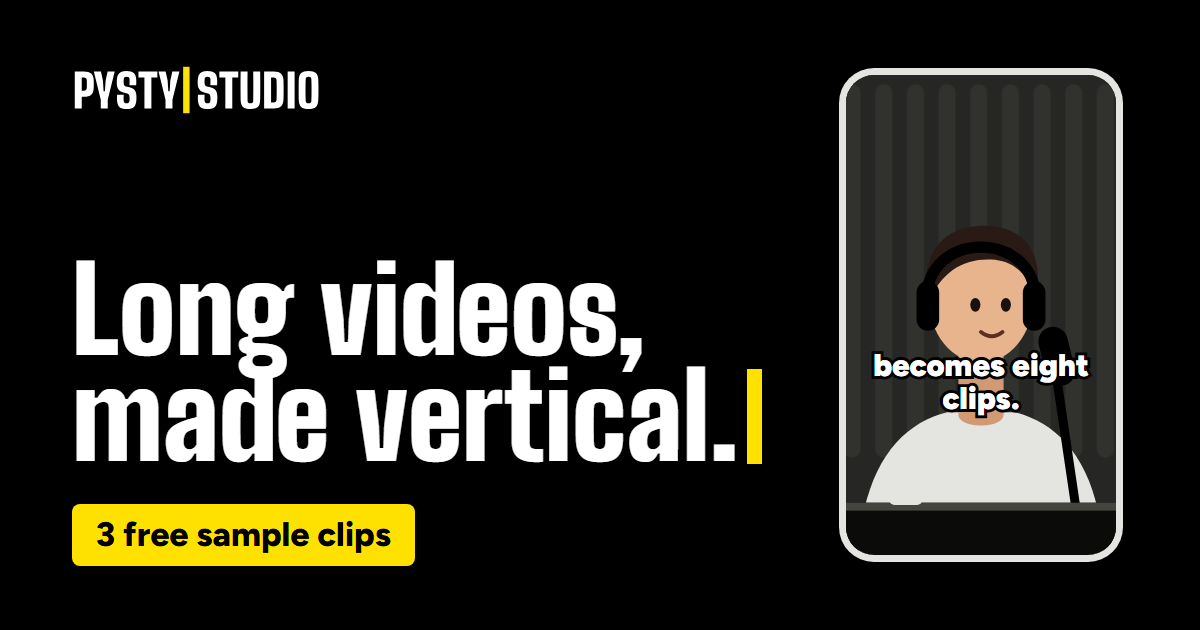
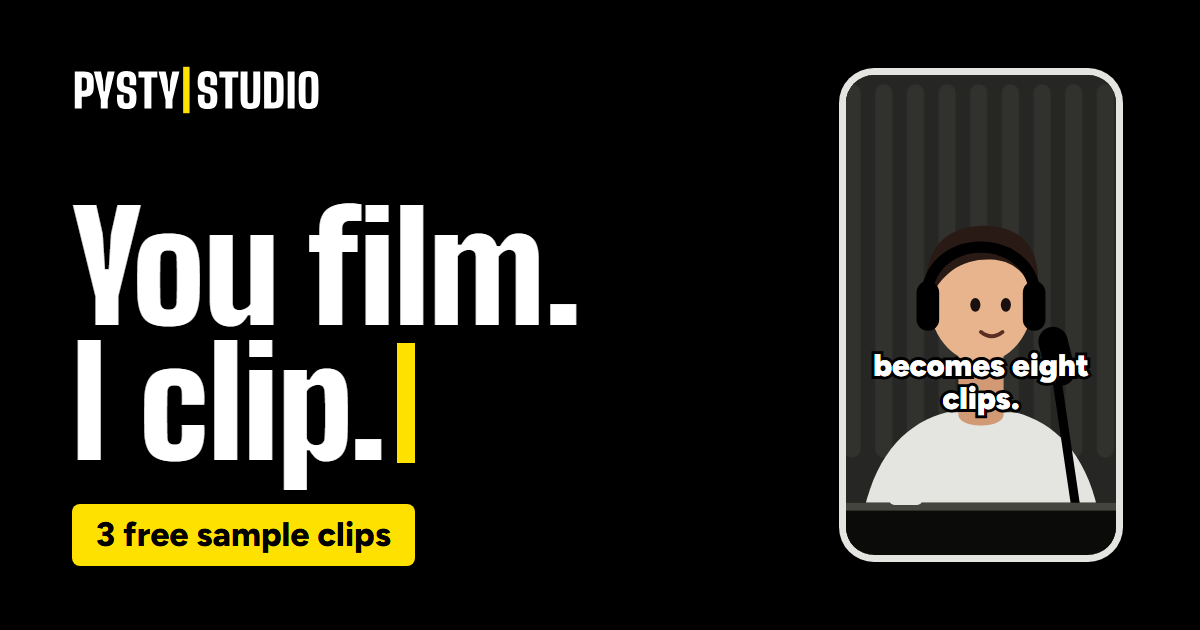
Etusivun otsikko: Sinä kuvaat. Minä klippaan. / You film. I clip. (Hanneksen valinta); ingressi, jakotiedot ja jakokuvat päivitetty, tietokoneella sana per rivi samassa tilassa kuin ennen

Changed region(s): [[0.0617, 0.3016, 0.6475, 0.7841]]

diff --git a/index.html b/index.html
@@ -10,7 +10,7 @@
   <meta property="og:type" content="website">
   <meta property="og:site_name" content="Pysty Studio">
   <meta property="og:url" content="https://pystystudio.fi/">
-  <meta property="og:title" content="Pysty Studio – pitkät videot pystyyn">
+  <meta property="og:title" content="Pysty Studio – sinä kuvaat, minä klippaan">
   <meta property="og:description" content="Valmiit pystyklipit YouTube-videoista ja podcasteista TikTokiin, Reelsiin ja Shortsiin. 3 ilmaista näyteklippiä.">
   <meta property="og:locale" content="fi_FI">
   <meta property="og:locale:alternate" content="en_US">
@@ -18,7 +18,7 @@
   <meta property="og:image:type" content="image/png">
   <meta property="og:image:width" content="1200">
   <meta property="og:image:height" content="630">
-  <meta property="og:image:alt" content="Pysty Studio: Pitkät videot pystyyn. 3 ilmaista näyteklippiä.">
+  <meta property="og:image:alt" content="Pysty Studio: Sinä kuvaat. Minä klippaan. 3 ilmaista näyteklippiä.">
   <meta name="twitter:card" content="summary_large_image">
   <meta name="theme-color" content="#000000">
   <!-- Kieliversiot: suomi (oletus) ja englanti (en/). -->
@@ -140,8 +140,8 @@
     <section class="hero" aria-labelledby="hero-otsikko">
       <div class="kehys hero-ruudukko">
         <div class="hero-teksti">
-          <h1 id="hero-otsikko"><span>Pitkät</span> <span>videot</span> <span class="kursori">pystyyn.</span></h1>
-          <p class="ingressi">Teen YouTube-videoistasi ja podcasteistasi valmiita pystyklippejä TikTokiin, Reelsiin ja Shortsiin. Sinä vain hyväksyt ne.</p>
+          <h1 id="hero-otsikko" class="otsikko-pino"><span>Sinä kuvaat.</span> <span>Minä klippaan.</span></h1>
+          <p class="ingressi">Teen YouTube-videoistasi ja podcasteistasi valmiita pystyklippejä TikTokiin, Reelsiin ja Shortsiin. Hyväksyt ne, ja ne ovat valmiita julkaistaviksi.</p>
           <div class="toiminnot">
             <a class="nappi nappi-ensisijainen" href="mailto:korkiakoskihannes@gmail.com?subject=Ilmaiset%20n%C3%A4yteklipit&amp;body=Hei%20Hannes%2C%0A%0Ahaluaisin%203%20ilmaista%20n%C3%A4yteklippi%C3%A4.%0A%0ALinkki%20videoon%20tai%20jaksoon%3A%20%0AKanavan%20nimi%20tai%20linkki%3A%20%0AKanavat%2C%20joilla%20julkaisen%20(TikTok%2C%20Instagram%20Reels%2C%20YouTube%20Shorts)%3A%20%0A%0AToiveet%20(vapaaehtoinen)%3A%0A-%20Kohdat%2C%20joista%20haluan%20klipit%20(aikaleimat)%3A%20%0A-%20Tyyli%20(tekstityksen%20v%C3%A4rit%2C%20fontti%2C%20musiikki)%3A%20%0A-%20Kenelle%20kanava%20on%20suunnattu%3A%20%0A%0ANimi%3A%20%0AYritys%20ja%20Y-tunnus%20(jos%20tilaan%20yrityksen%C3%A4)%3A%20%0A%0AHyv%C3%A4ksyn%20n%C3%A4ytteiden%20ehdot%3A%20https%3A%2F%2Fpystystudio.fi%2Fnaytteet.html%0A">Pyydä 3 ilmaista näyteklippiä</a>
             <a class="nappi nappi-toissijainen" href="#hinnat">Katso hinnat</a>

diff --git a/en/index.html b/en/index.html
@@ -10,7 +10,7 @@
   <meta property="og:type" content="website">
   <meta property="og:site_name" content="Pysty Studio">
   <meta property="og:url" content="https://pystystudio.fi/en/">
-  <meta property="og:title" content="Pysty Studio – long videos, made vertical">
+  <meta property="og:title" content="Pysty Studio – you film, I clip">
   <meta property="og:description" content="Ready-to-post vertical clips from YouTube videos and podcasts for TikTok, Reels and Shorts. Get 3 free sample clips.">
   <meta property="og:locale" content="en_US">
   <meta property="og:locale:alternate" content="fi_FI">
@@ -18,7 +18,7 @@
   <meta property="og:image:type" content="image/png">
   <meta property="og:image:width" content="1200">
   <meta property="og:image:height" content="630">
-  <meta property="og:image:alt" content="Pysty Studio: Long videos, made vertical. 3 free sample clips.">
+  <meta property="og:image:alt" content="Pysty Studio: You film. I clip. 3 free sample clips.">
   <meta name="twitter:card" content="summary_large_image">
   <meta name="theme-color" content="#000000">
   <!-- Kieliversiot: suomi (oletus) ja englanti. -->
@@ -140,7 +140,7 @@
     <section class="hero" aria-labelledby="hero-heading">
       <div class="kehys hero-ruudukko">
         <div class="hero-teksti">
-          <h1 id="hero-heading"><span>Long</span> <span>videos,</span> <span>made</span> <span class="kursori">vertical.</span></h1>
+          <h1 id="hero-heading"><span>You film.</span> <span>I clip.</span></h1>
           <p class="ingressi">I turn your YouTube videos and podcasts into ready-to-post vertical clips for TikTok, Reels and Shorts. You just approve them.</p>
           <div class="toiminnot">
             <a class="nappi nappi-ensisijainen" href="mailto:korkiakoskihannes@gmail.com?subject=Free%20sample%20clips&amp;body=Hi%20Hannes%2C%0A%0AI%E2%80%99d%20like%203%20free%20sample%20clips.%0A%0ALink%20to%20the%20video%20or%20episode%3A%20%0AChannel%20name%20or%20link%3A%20%0AWhere%20I%20publish%20(TikTok%2C%20Instagram%20Reels%2C%20YouTube%20Shorts)%3A%20%0A%0AWishes%20(optional)%3A%0A-%20Moments%20I%E2%80%99d%20like%20clipped%20(timestamps)%3A%20%0A-%20Style%20(caption%20colours%2C%20font%2C%20music)%3A%20%0A-%20Who%20the%20channel%20is%20for%3A%20%0A%0AName%3A%20%0ACompany%20and%20VAT%20number%20(if%20any)%3A%20%0A%0AI%20accept%20the%20sample%20terms%3A%20https%3A%2F%2Fpystystudio.fi%2Fen%2Fsamples.html%0A">Get 3 free sample clips</a>

diff --git a/assets/tyyli.css b/assets/tyyli.css
@@ -1787,8 +1787,11 @@ h1 span { display: block; }
   }
   .klippi { width: min(62%, 19rem); }
   .ingressi { font-size: 1.25rem; }
-  /* Kahdessa sarakkeessa otsikko skaalataan sarakkeen mukaan, jotta "pystyyn.|" mahtuu. */
+  /* Kahdessa sarakkeessa otsikko skaalataan sarakkeen mukaan, jotta pisin sana mahtuu. */
   h1 { font-size: clamp(5rem, 14.5vw - 1.5rem, 9.5rem); }
+  /* Suomenkielinen otsikko "Sinä kuvaat. Minä klippaan." (29.10.2026): kahdessa sarakkeessa sana per rivi ja koko 3/4,
+     jotta neljä riviä vievät saman tilan kuin entiset kolme. Kapeammalla otsikko on kaksi riviä. */
+  h1.otsikko-pino { font-size: clamp(3.75rem, 10.875vw - 1.125rem, 7.125rem); word-spacing: 100vw; }
 }
 
 @media (prefers-reduced-motion: reduce) {

diff --git a/tietosuoja.html b/tietosuoja.html
@@ -17,7 +17,7 @@
   <meta property="og:image:type" content="image/png">
   <meta property="og:image:width" content="1200">
   <meta property="og:image:height" content="630">
-  <meta property="og:image:alt" content="Pysty Studio: Pitkät videot pystyyn. 3 ilmaista näyteklippiä.">
+  <meta property="og:image:alt" content="Pysty Studio: Sinä kuvaat. Minä klippaan. 3 ilmaista näyteklippiä.">
   <meta name="twitter:card" content="summary_large_image">
   <meta name="theme-color" content="#000000">
   <link rel="alternate" hreflang="fi" href="https://pystystudio.fi/tietosuoja.html">

diff --git a/naytteet.html b/naytteet.html
@@ -17,7 +17,7 @@
   <meta property="og:image:type" content="image/png">
   <meta property="og:image:width" content="1200">
   <meta property="og:image:height" content="630">
-  <meta property="og:image:alt" content="Pysty Studio: Pitkät videot pystyyn. 3 ilmaista näyteklippiä.">
+  <meta property="og:image:alt" content="Pysty Studio: Sinä kuvaat. Minä klippaan. 3 ilmaista näyteklippiä.">
   <meta name="twitter:card" content="summary_large_image">
   <meta name="theme-color" content="#000000">
   <link rel="alternate" hreflang="fi" href="https://pystystudio.fi/naytteet.html">

diff --git a/tarjous.html b/tarjous.html
@@ -17,7 +17,7 @@
   <meta property="og:image:type" content="image/png">
   <meta property="og:image:width" content="1200">
   <meta property="og:image:height" content="630">
-  <meta property="og:image:alt" content="Pysty Studio: Pitkät videot pystyyn. 3 ilmaista näyteklippiä.">
+  <meta property="og:image:alt" content="Pysty Studio: Sinä kuvaat. Minä klippaan. 3 ilmaista näyteklippiä.">
   <meta name="twitter:card" content="summary_large_image">
   <meta name="theme-color" content="#000000">
   <link rel="alternate" hreflang="fi" href="https://pystystudio.fi/tarjous.html">

diff --git a/en/privacy.html b/en/privacy.html
@@ -17,7 +17,7 @@
   <meta property="og:image:type" content="image/png">
   <meta property="og:image:width" content="1200">
   <meta property="og:image:height" content="630">
-  <meta property="og:image:alt" content="Pysty Studio: Long videos, made vertical. 3 free sample clips.">
+  <meta property="og:image:alt" content="Pysty Studio: You film. I clip. 3 free sample clips.">
   <meta name="twitter:card" content="summary_large_image">
   <meta name="theme-color" content="#000000">
   <link rel="alternate" hreflang="fi" href="https://pystystudio.fi/tietosuoja.html">

diff --git a/en/samples.html b/en/samples.html
@@ -17,7 +17,7 @@
   <meta property="og:image:type" content="image/png">
   <meta property="og:image:width" content="1200">
   <meta property="og:image:height" content="630">
-  <meta property="og:image:alt" content="Pysty Studio: Long videos, made vertical. 3 free sample clips.">
+  <meta property="og:image:alt" content="Pysty Studio: You film. I clip. 3 free sample clips.">
   <meta name="twitter:card" content="summary_large_image">
   <meta name="theme-color" content="#000000">
   <link rel="alternate" hreflang="fi" href="https://pystystudio.fi/naytteet.html">

diff --git a/en/quote.html b/en/quote.html
@@ -17,7 +17,7 @@
   <meta property="og:image:type" content="image/png">
   <meta property="og:image:width" content="1200">
   <meta property="og:image:height" content="630">
-  <meta property="og:image:alt" content="Pysty Studio: Long videos, made vertical. 3 free sample clips.">
+  <meta property="og:image:alt" content="Pysty Studio: You film. I clip. 3 free sample clips.">
   <meta name="twitter:card" content="summary_large_image">
   <meta name="theme-color" content="#000000">
   <link rel="alternate" hreflang="fi" href="https://pystystudio.fi/tarjous.html">

diff --git a/README.md b/README.md
@@ -217,7 +217,7 @@ Hannes pyysi näyttävämpää ilmettä ja avausefektiä. Ilme oli ensin esikats
 - **Teema:** logon pystyviiva on kursori, joka kirjoittaa tekstityksen sana kerrallaan.
   - **Avausefekti** (noin 3 s, vain etusivulla ensimmäisellä käynnillä; lyhennetty 28.10.2026 viidestä sekunnista, koska myyntiviestistä tuleva kävijä näkee sen ensimmäisenä. Aikajana on `ilme-uusi.css`:n kommentissa):
     1. Musta ruutu ja vilkkuva kursori.
-    2. PYSTY | STUDIO ja ”Pitkät videot pystyyn.” ilmestyvät sana kerrallaan.
+    2. PYSTY | STUDIO ja ”Sinä kuvaat. Minä klippaan.” ilmestyvät sana kerrallaan (otsikko vaihdettu 29.10.2026, ennen ”Pitkät videot pystyyn.”).
     3. 16:9-studiokuva rajautuu 9:16:ksi puhujan kohdalle.
     4. Pystykehys suurenee ja aukeaa sivuksi.
   - **Muu ilme:**
